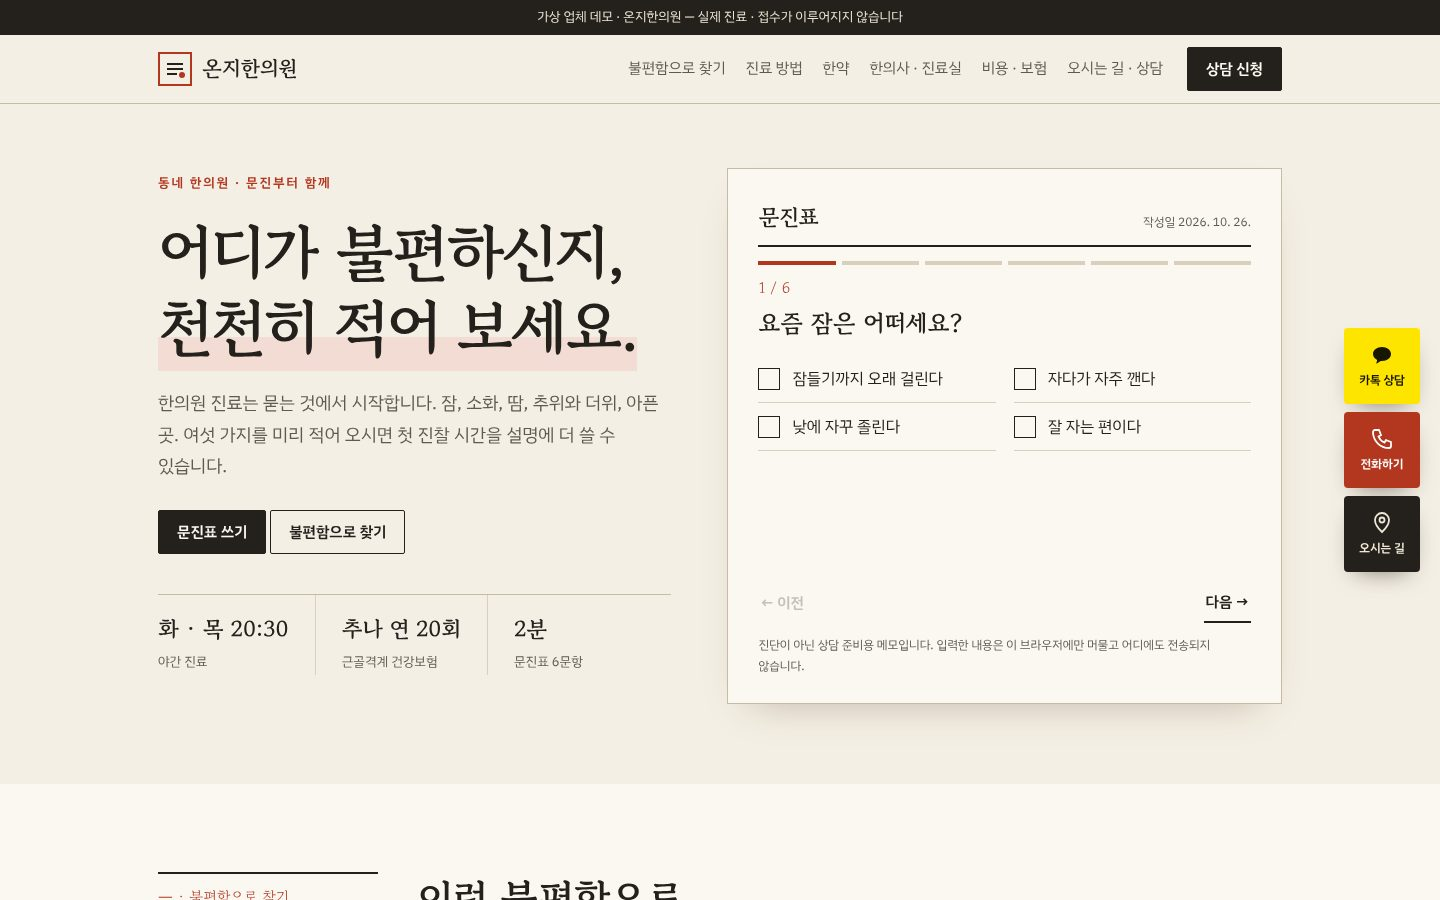
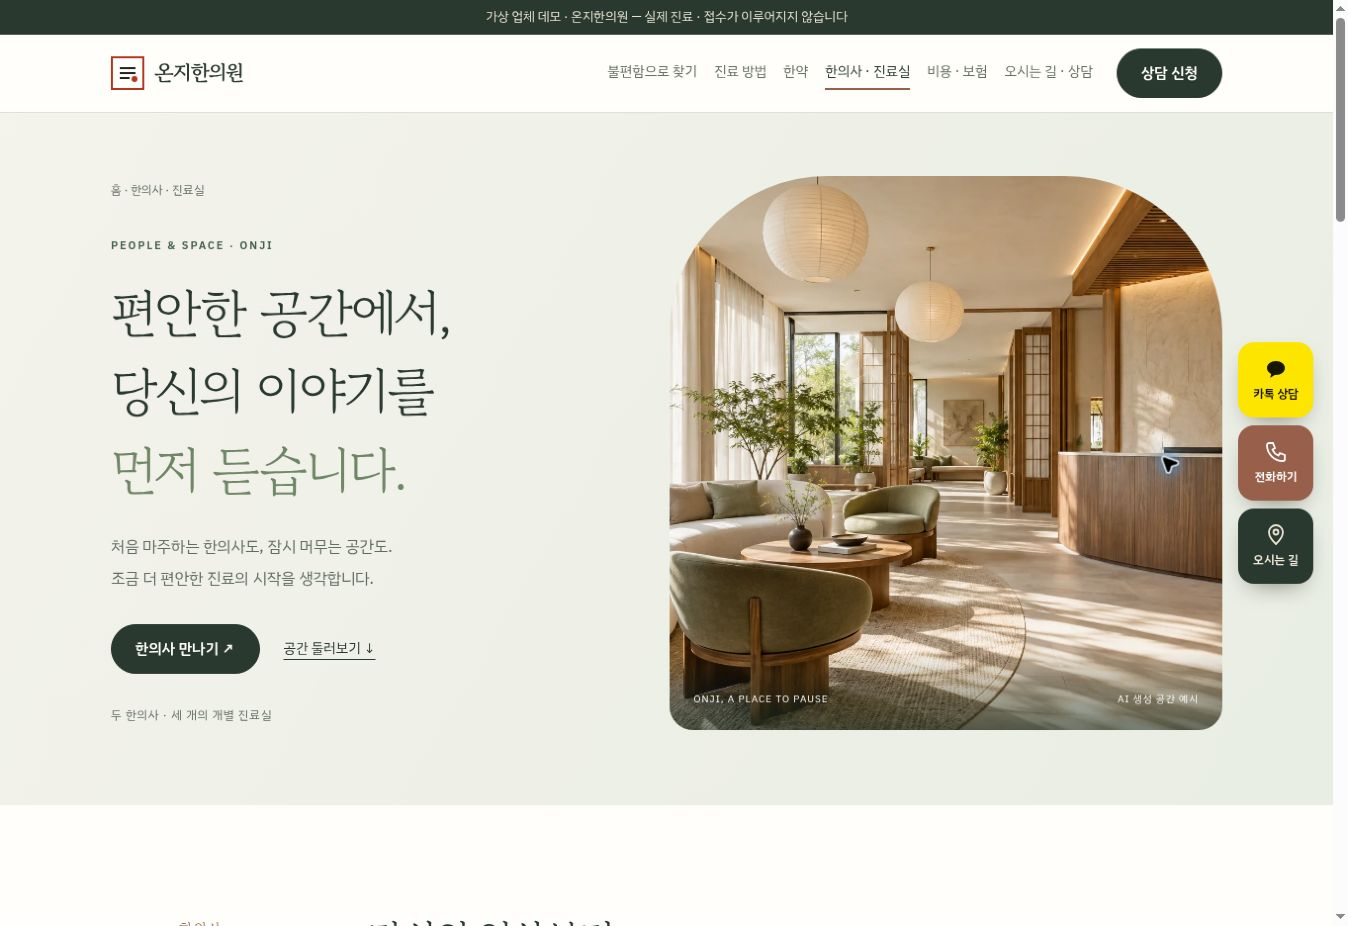
feat(medical-oriental): brighten munjin with clinic photography (#110)

diff --git a/concepts/medical-oriental/munjin/assets/site.css b/concepts/medical-oriental/munjin/assets/site.css
@@ -303,3 +303,19 @@ footer nav a{text-decoration:none}
   .quick a:hover,.quick button:hover{transform:none}
   .toast{bottom:84px}
 }
+
+/* 2026-10: 햇살과 여백, 부드러운 온지의 지면 */
+:root{--paper:#f7f5ef;--sheet:#fffefa;--moss:#edf1e8;--hanji:#f0eee5;--blush:#f7eee8;--ink:#29392f;--ink-bg:#29392f;--sub:#626d62;--rule:#dce1d6;--rule2:#cbd2c4;--seal:#98604a;--seal-soft:#efe1d5;--moss-ink:#46604b}
+header.top{background:rgba(255,254,250,.95);border-color:var(--rule)}
+header.top .wrap{height:78px}
+.logo{letter-spacing:-.05em}.btn{border-radius:100px;padding:13px 24px;transition:background .2s,transform .2s}.btn:hover{transform:translateY(-2px);background:#435b48;color:#fff}.btn.line:hover{background:var(--moss);color:var(--ink)}
+section.blk{padding:104px 0}.sec-head{gap:40px;margin-bottom:48px}.sec-head .no{border-top:0;padding-top:8px;letter-spacing:.06em}.sec-head .no::before{content:"";display:inline-block;width:22px;height:1px;background:currentColor;vertical-align:middle;margin-right:12px}.sec-head h2{font-weight:400;letter-spacing:-.05em;line-height:1.5}.sec-head p{line-height:1.95}
+.subhead{border:0}.subhead h1{letter-spacing:-.055em;font-weight:400}.sheet{border-radius:24px;border-color:var(--rule);box-shadow:0 18px 60px -30px #71816d55}.box{border-radius:5px}.box2{border-radius:16px}.quick a,.quick button{border-radius:16px}.ph{border:0;border-radius:20px;background:var(--hanji)}.ph .ai{border-radius:20px;left:12px;bottom:12px;padding:3px 9px;font-size:10px;background:#29392fb8}.rooms{gap:24px}.rooms>figure{background:var(--sheet);border-radius:22px;overflow:hidden;padding:10px 10px 24px}.rooms .ph{border-radius:15px}.rooms figcaption{padding:20px 12px 0}.rooms figcaption b{font-size:20px;font-weight:400;margin-bottom:8px}.rooms figcaption span{font-size:14px;line-height:1.8;display:block}.split{align-items:center;gap:64px}
+.docs{gap:28px}.doc{grid-template-columns:minmax(150px,.9fr) minmax(0,1fr);gap:26px;background:#fffefa;padding:22px;border-radius:24px;border:1px solid #e4e7dc}.doc .ph{border-radius:15px}.doc h3{font-size:30px;font-weight:400;letter-spacing:-.05em}.doc .role{font-size:13px;line-height:1.7;margin-top:8px}.doc ul{font-size:14px;border-top:0}.doc li{padding:9px 0;border-color:#e7eadd}.doc .q2{font-size:16px;line-height:1.85}.doc .days{display:inline-block;background:var(--moss);padding:5px 10px;border-radius:8px;font-size:12px}
+.doctors-intro{padding:64px 0 76px;background:linear-gradient(120deg,#f4f3ec,#e9eee4)}.intro-grid{display:grid;grid-template-columns:.95fr 1.05fr;align-items:center;gap:60px}.doctors-intro .crumb{font-size:12px;margin:0 0 36px}.doctors-intro .eyebrow{font-size:11px;letter-spacing:.18em;color:var(--moss-ink);margin:0 0 18px}.doctors-intro h1{font-size:clamp(36px,4vw,53px);line-height:1.5;margin:0 0 24px}.doctors-intro h1 em{font-style:normal;color:#6f8667}.doctors-intro .intro-copy>p:not(.crumb):not(.eyebrow){font-size:16px;line-height:1.95}.intro-links{display:flex;flex-wrap:wrap;align-items:center;gap:24px;margin-top:30px}.intro-links>a:not(.btn){font-size:14px;text-underline-offset:6px}.intro-note{display:block;margin-top:32px;font-size:12px;letter-spacing:.06em;color:var(--sub)}.intro-photo{position:relative;margin:0;align-self:stretch;min-height:560px;border-radius:160px 160px 24px 24px;overflow:hidden;background:#dedfd1}.intro-photo img{width:100%;height:100%;object-fit:cover;position:absolute;inset:0}.intro-photo figcaption{position:absolute;bottom:0;left:0;right:0;padding:38px 24px 22px;background:linear-gradient(transparent,#1e352c99);color:#fff;display:flex;flex-wrap:wrap;justify-content:space-between;gap:8px;font-size:10px;letter-spacing:.1em}.intro-photo figcaption span{color:#fff}
+body[data-page=doctors] .docs{grid-template-columns:1fr 1fr}body[data-page=doctors] .doc{display:flex;flex-direction:column;padding:16px 16px 30px;gap:24px}body[data-page=doctors] .doc>.ph{width:100%;aspect-ratio:4/5}body[data-page=doctors] .doc>.ph img{object-position:center 30%}body[data-page=doctors] .doc>div{padding:0 16px;width:100%}body[data-page=doctors] .doc .q2{font-size:20px;max-width:20em;color:var(--moss-ink)}
+@media(min-width:1081px){nav.gnb{gap:17px;font-size:14px}}
+@media(max-width:1080px){nav.gnb{top:78px}.intro-grid{gap:32px;grid-template-columns:1fr 1fr}.intro-photo{min-height:510px}.doc{grid-template-columns:200px 1fr}.docs{grid-template-columns:1fr}.split{gap:32px}.sec-head{gap:16px}}
+@media(max-width:760px){header.top .wrap{height:68px}nav.gnb{top:68px}section.blk{padding:64px 0}.sec-head{margin-bottom:30px}.intro-grid{grid-template-columns:1fr;gap:32px}.doctors-intro{padding:28px 0 40px}.doctors-intro .crumb{margin-bottom:28px}.doctors-intro h1{font-size:38px;line-height:1.45}.intro-photo{min-height:0;aspect-ratio:5/4;border-radius:110px 110px 20px 20px}.intro-note{margin-top:22px}.intro-links{margin-top:24px;gap:18px}.intro-links .btn{padding:12px 20px}body[data-page=doctors] .docs{grid-template-columns:1fr;gap:24px}body[data-page=doctors] .doc>.ph{aspect-ratio:1/1}body[data-page=doctors] .doc>div{padding:0 8px}.doc{grid-template-columns:110px 1fr;padding:16px;gap:16px}.doc h3{font-size:26px}.rooms{gap:22px}.quick a,.quick button{border-radius:0}.nextband b{font-size:24px;line-height:1.6}.split{gap:28px}}
+section[id]{scroll-margin-top:78px}
+@media(max-width:760px){section[id]{scroll-margin-top:68px}}

diff --git a/concepts/medical-oriental/munjin/doctors/index.html b/concepts/medical-oriental/munjin/doctors/index.html
@@ -11,27 +11,30 @@
 <meta property="og:image" content="../preview.jpg">
 <link rel="preconnect" href="https://fonts.googleapis.com"><link rel="preconnect" href="https://fonts.gstatic.com" crossorigin>
 <link rel="stylesheet" href="https://fonts.googleapis.com/css2?family=Gowun+Batang:wght@400;700&family=IBM+Plex+Sans+KR:wght@400;500;600&display=swap">
-<link rel="stylesheet" href="../assets/site.css?v=20261026">
+<link rel="stylesheet" href="../assets/site.css?v=20261029">
 </head>
 <body data-page="doctors" data-root="../">
 <main id="main">
-<section class="subhead bg-hanji"><div class="wrap"><p class="crumb"><a href="../">홈</a> · 한의사 · 진료실</p><h1>한의사와 진료실</h1><p>두 한의사가 진료 영역을 나눠 봅니다. 첫 진찰을 맡은 한의사가 경과를 끝까지 보고, 담당이 바뀔 때는 진료 기록과 문진표를 함께 넘깁니다. 경력 표기는 예시입니다.</p></div></section>
-<section class="blk bg-sheet"><div class="wrap">
-  <div class="sec-head"><span class="no">一 · 한의사</span><div><h2>누가,<br>무엇을 보는지.</h2><p>불편함마다 주로 보는 한의사가 정해져 있지만, 예약하실 때 원하시는 한의사를 고르실 수 있습니다.</p></div></div>
+<section class="subhead doctors-intro bg-hanji"><div class="wrap intro-grid">
+  <div class="intro-copy"><p class="crumb"><a href="../">홈</a> · 한의사 · 진료실</p><p class="eyebrow">PEOPLE &amp; SPACE · ONJI</p><h1>편안한 공간에서,<br>당신의 이야기를<br><em>먼저 듣습니다.</em></h1><p>처음 마주하는 한의사도, 잠시 머무는 공간도.<br>조금 더 편안한 진료의 시작을 생각합니다.</p><div class="intro-links"><a class="btn" href="#people">한의사 만나기 ↗</a><a href="#space">공간 둘러보기 ↓</a></div><span class="intro-note">두 한의사 · 세 개의 개별 진료실</span></div>
+  <figure class="intro-photo"><img src="../../images/space-lobby.webp" alt="햇살과 원목이 어우러진 밝은 대기 공간 (AI 생성 예시)" width="1536" height="1024" fetchpriority="high"><figcaption><span>ONJI, A PLACE TO PAUSE</span><span>AI 생성 공간 예시</span></figcaption></figure>
+</div></section>
+<section class="blk bg-sheet" id="people"><div class="wrap">
+  <div class="sec-head"><span class="no">一 · 한의사</span><div><h2>당신의 일상부터<br>함께 살피는 두 사람.</h2><p>첫 진찰을 맡은 한의사가 경과를 이어서 봅니다. 예약할 때 원하시는 한의사를 고르실 수 있습니다. 아래 인물과 경력은 가상 예시입니다.</p></div></div>
   <div class="docs" id="docs"></div>
 </div></section>
-<section class="blk bg-moss"><div class="wrap">
-  <div class="sec-head"><span class="no">二 · 진료실</span><div><h2>문이 닫히는<br>진료실 세 곳.</h2><p>옷을 갈아입거나 누워 있는 동안 다른 사람과 마주치지 않도록 진료실을 모두 문으로 나눴습니다.</p></div></div>
+<section class="blk bg-moss" id="space"><div class="wrap">
+  <div class="sec-head"><span class="no">二 · 진료실</span><div><h2>온전히 쉴 수 있도록,<br>문이 닫히는 진료실.</h2><p>옷을 갈아입거나 누워 있는 동안 다른 사람과 마주치지 않도록 진료실을 모두 문으로 나눴습니다.</p></div></div>
   <div class="rooms" data-rooms></div>
 </div></section>
 <section class="blk bg-paper"><div class="wrap">
   <div class="split">
     <div data-ph="space-lobby.webp|대기 공간|r32|3:2 대기 공간 사진 자리"></div>
-    <div><div class="sec-head" style="grid-template-columns:1fr;margin-bottom:20px"><span class="no">三 · 대기 공간</span><div><h2>기다리는 동안<br>문진표를.</h2></div></div><p>접수대 옆에 종이 문진표와 필기구가 있습니다. 온라인 문진표를 쓰셨다면 화면을 보여 주시면 됩니다.</p><p class="small">사진은 AI 생성 예시이며 실제 공간이 아닙니다.</p></div>
+    <div><div class="sec-head" style="grid-template-columns:1fr;margin-bottom:20px"><span class="no">三 · 대기 공간</span><div><h2>햇살이 머무는 곳,<br>잠시 쉬어 가세요.</h2></div></div><p>접수대 옆에 종이 문진표와 필기구가 있습니다. 온라인 문진표를 쓰셨다면 화면을 보여 주시면 됩니다.</p><p class="small">사진은 AI 생성 예시이며 실제 공간이 아닙니다.</p></div>
   </div>
 </div></section>
-<section class="nextband bg-ink"><div class="wrap"><b>원하는 한의사에게 상담받고 싶다면</b><a class="btn" href="../visit/#consult">상담 신청 →</a></div></section>
+<section class="nextband bg-ink"><div class="wrap"><b>궁금한 이야기는, 편하게 남겨 주세요.</b><a class="btn" href="../visit/#consult">상담 신청 →</a></div></section>
 </main>
-<script src="../assets/site.js?v=20261026"></script>
+<script src="../assets/site.js?v=20261029"></script>
 </body>
 </html>

diff --git a/concepts/medical-oriental/munjin/assets/site.js b/concepts/medical-oriental/munjin/assets/site.js
@@ -72,7 +72,7 @@ const icon={
   const logo=`<svg width="34" height="34" viewBox="0 0 34 34" aria-hidden="true"><rect x="1" y="1" width="32" height="32" fill="none" stroke="#b3361f" stroke-width="2"/><path d="M9 12h16M9 17h16M9 22h10" stroke="#24211c" stroke-width="2"/><circle cx="24" cy="23" r="3" fill="#b3361f"/></svg>`;
   const nav=DATA.nav.map(([h,l])=>`<a href="${ROOT}${h}"${page===h.replace('/','')?' aria-current="page"':''}>${l}</a>`).join('');
   document.body.insertAdjacentHTML('afterbegin',`<a class="skip" href="#main">본문 바로가기</a><div class="demo">가상 업체 데모 · 온지한의원 — 실제 진료 · 접수가 이루어지지 않습니다</div><header class="top"><div class="wrap"><a class="logo" href="${ROOT}" aria-label="${DATA.name} 처음으로">${logo}<span>${DATA.name}</span></a><button class="menu-btn" type="button" aria-expanded="false" aria-controls="gnb">메뉴</button><nav class="gnb" id="gnb" aria-label="주요 메뉴">${nav}</nav><a class="btn header-cta" href="${ROOT}visit/#consult">상담 신청</a></div></header>`);
-  document.body.insertAdjacentHTML('beforeend',`<footer><div class="wrap"><div><b>${DATA.name}</b><br>${DATA.footer}<nav aria-label="하단 메뉴">${DATA.nav.map(([h,l])=>`<a href="${ROOT}${h}">${l}</a>`).join('')}</nav></div><div>가상 업체 데모입니다. 업체명 · 의료진 · 주소 · 전화 · 금액은 모두 예시이며 실제 진료가 아닙니다. 진료 결과는 개인에 따라 다를 수 있습니다. 사진 자리는 AI 생성 예시 이미지로 채우며 실제 의료진 · 환자가 아닙니다. 실제 운영 시 의료광고 심의 대상 여부를 확인합니다.</div></div></footer>
+  document.body.insertAdjacentHTML('beforeend',`<footer><div class="wrap"><div><b>${DATA.name}</b><br>${DATA.footer}<nav aria-label="하단 메뉴">${DATA.nav.map(([h,l])=>`<a href="${ROOT}${h}">${l}</a>`).join('')}</nav></div><div>가상 업체 데모입니다. 업체명 · 의료진 · 주소 · 전화 · 금액은 모두 예시이며 실제 진료가 아닙니다. 진료 결과는 개인에 따라 다를 수 있습니다. 사진은 AI 생성 예시이며 실제 의료진 · 환자 · 공간이 아닙니다. 실제 운영 시 의료광고 심의 대상 여부를 확인합니다.</div></div></footer>
   <nav class="quick" aria-label="바로가기"><button type="button" class="kakao" id="q-kakao">${icon.kakao}카톡 상담</button><a class="tel" href="${DATA.telHref}" aria-label="전화하기 ${DATA.tel}">${icon.tel}전화하기</a><a class="map" href="${ROOT}visit/#map">${icon.map}오시는 길</a></nav><div class="toast" id="toast" role="status"></div>`);
   const mb=$('.menu-btn'),g=$('#gnb');mb.onclick=()=>{const o=g.classList.toggle('open');mb.setAttribute('aria-expanded',String(o));mb.textContent=o?'닫기':'메뉴';};
   let tt;window.toast=m=>{const t=$('#toast');t.textContent=m;t.classList.add('on');clearTimeout(tt);tt=setTimeout(()=>t.classList.remove('on'),3200);};

diff --git a/concepts/medical-oriental/munjin/index.html b/concepts/medical-oriental/munjin/index.html
@@ -11,7 +11,7 @@
 <meta property="og:image" content="./preview.jpg">
 <link rel="preconnect" href="https://fonts.googleapis.com"><link rel="preconnect" href="https://fonts.gstatic.com" crossorigin>
 <link rel="stylesheet" href="https://fonts.googleapis.com/css2?family=Gowun+Batang:wght@400;700&family=IBM+Plex+Sans+KR:wght@400;500;600&display=swap">
-<link rel="stylesheet" href="./assets/site.css?v=20261026">
+<link rel="stylesheet" href="./assets/site.css?v=20261029">
 </head>
 <body data-page="home" data-root="./">
 <main id="main">
@@ -71,6 +71,6 @@
 <section class="nextband bg-ink"><div class="wrap"><b>문진표를 썼다면, 상담 신청까지 한 번에.</b><a class="btn" href="visit/#consult">상담 신청</a></div></section>
 </main>
 <script type="application/ld+json">{"@context":"https://schema.org","@type":"MedicalClinic","name":"온지한의원 (가상 업체 데모)","description":"가상 업체 데모 · 문진표로 시작하는 동네 한의원","telephone":"02-000-0000","address":{"@type":"PostalAddress","streetAddress":"솔내로 24, 3층 (가상)","addressLocality":"가온구","addressRegion":"서울","addressCountry":"KR"},"openingHoursSpecification":[{"@type":"OpeningHoursSpecification","dayOfWeek":["Monday","Wednesday","Friday"],"opens":"09:30","closes":"19:00"},{"@type":"OpeningHoursSpecification","dayOfWeek":["Tuesday","Thursday"],"opens":"09:30","closes":"20:30"},{"@type":"OpeningHoursSpecification","dayOfWeek":"Saturday","opens":"09:30","closes":"14:00"}]}</script>
-<script src="./assets/site.js?v=20261026"></script>
+<script src="./assets/site.js?v=20261029"></script>
 </body>
 </html>

diff --git a/concepts/medical-oriental/munjin/methods/index.html b/concepts/medical-oriental/munjin/methods/index.html
@@ -11,7 +11,7 @@
 <meta property="og:image" content="../preview.jpg">
 <link rel="preconnect" href="https://fonts.googleapis.com"><link rel="preconnect" href="https://fonts.gstatic.com" crossorigin>
 <link rel="stylesheet" href="https://fonts.googleapis.com/css2?family=Gowun+Batang:wght@400;700&family=IBM+Plex+Sans+KR:wght@400;500;600&display=swap">
-<link rel="stylesheet" href="../assets/site.css?v=20261026">
+<link rel="stylesheet" href="../assets/site.css?v=20261029">
 </head>
 <body data-page="methods" data-root="../">
 <main id="main">
@@ -32,6 +32,6 @@
 </div></section>
 <section class="nextband bg-hanji"><div class="wrap"><b>한약은 어떻게 짓는지 궁금하다면</b><a class="btn" href="../herbal/">한약 보기 →</a></div></section>
 </main>
-<script src="../assets/site.js?v=20261026"></script>
+<script src="../assets/site.js?v=20261029"></script>
 </body>
 </html>

diff --git a/concepts/medical-oriental/munjin/cost/index.html b/concepts/medical-oriental/munjin/cost/index.html
@@ -11,7 +11,7 @@
 <meta property="og:image" content="../preview.jpg">
 <link rel="preconnect" href="https://fonts.googleapis.com"><link rel="preconnect" href="https://fonts.gstatic.com" crossorigin>
 <link rel="stylesheet" href="https://fonts.googleapis.com/css2?family=Gowun+Batang:wght@400;700&family=IBM+Plex+Sans+KR:wght@400;500;600&display=swap">
-<link rel="stylesheet" href="../assets/site.css?v=20261026">
+<link rel="stylesheet" href="../assets/site.css?v=20261029">
 </head>
 <body data-page="cost" data-root="../">
 <main id="main">
@@ -28,6 +28,6 @@
 </div></section>
 <section class="nextband bg-blush"><div class="wrap"><b>비용을 미리 상담하고 싶다면</b><a class="btn" href="../visit/#consult">상담 신청 →</a></div></section>
 </main>
-<script src="../assets/site.js?v=20261026"></script>
+<script src="../assets/site.js?v=20261029"></script>
 </body>
 </html>

diff --git a/concepts/medical-oriental/munjin/concerns/index.html b/concepts/medical-oriental/munjin/concerns/index.html
@@ -11,7 +11,7 @@
 <meta property="og:image" content="../preview.jpg">
 <link rel="preconnect" href="https://fonts.googleapis.com"><link rel="preconnect" href="https://fonts.gstatic.com" crossorigin>
 <link rel="stylesheet" href="https://fonts.googleapis.com/css2?family=Gowun+Batang:wght@400;700&family=IBM+Plex+Sans+KR:wght@400;500;600&display=swap">
-<link rel="stylesheet" href="../assets/site.css?v=20261026">
+<link rel="stylesheet" href="../assets/site.css?v=20261029">
 </head>
 <body data-page="concerns" data-root="../">
 <main id="main">
@@ -26,6 +26,6 @@
 </div></section>
 <section class="nextband bg-moss"><div class="wrap"><b>진료 방법이 궁금하다면</b><a class="btn" href="../methods/">진료 방법 보기 →</a></div></section>
 </main>
-<script src="../assets/site.js?v=20261026"></script>
+<script src="../assets/site.js?v=20261029"></script>
 </body>
 </html>

diff --git a/concepts/medical-oriental/munjin/herbal/index.html b/concepts/medical-oriental/munjin/herbal/index.html
@@ -11,7 +11,7 @@
 <meta property="og:image" content="../preview.jpg">
 <link rel="preconnect" href="https://fonts.googleapis.com"><link rel="preconnect" href="https://fonts.gstatic.com" crossorigin>
 <link rel="stylesheet" href="https://fonts.googleapis.com/css2?family=Gowun+Batang:wght@400;700&family=IBM+Plex+Sans+KR:wght@400;500;600&display=swap">
-<link rel="stylesheet" href="../assets/site.css?v=20261026">
+<link rel="stylesheet" href="../assets/site.css?v=20261029">
 </head>
 <body data-page="herbal" data-root="../">
 <main id="main">
@@ -40,6 +40,6 @@
 </div></section>
 <section class="nextband bg-sheet"><div class="wrap"><b>비용 전체를 보고 싶다면</b><a class="btn" href="../cost/">비용 · 보험 보기 →</a></div></section>
 </main>
-<script src="../assets/site.js?v=20261026"></script>
+<script src="../assets/site.js?v=20261029"></script>
 </body>
 </html>

diff --git a/concepts/medical-oriental/munjin/visit/index.html b/concepts/medical-oriental/munjin/visit/index.html
@@ -11,7 +11,7 @@
 <meta property="og:image" content="../preview.jpg">
 <link rel="preconnect" href="https://fonts.googleapis.com"><link rel="preconnect" href="https://fonts.gstatic.com" crossorigin>
 <link rel="stylesheet" href="https://fonts.googleapis.com/css2?family=Gowun+Batang:wght@400;700&family=IBM+Plex+Sans+KR:wght@400;500;600&display=swap">
-<link rel="stylesheet" href="../assets/site.css?v=20261026">
+<link rel="stylesheet" href="../assets/site.css?v=20261029">
 </head>
 <body data-page="visit" data-root="../">
 <main id="main">
@@ -37,6 +37,6 @@
   </form>
 </div></section>
 </main>
-<script src="../assets/site.js?v=20261026"></script>
+<script src="../assets/site.js?v=20261029"></script>
 </body>
 </html>
